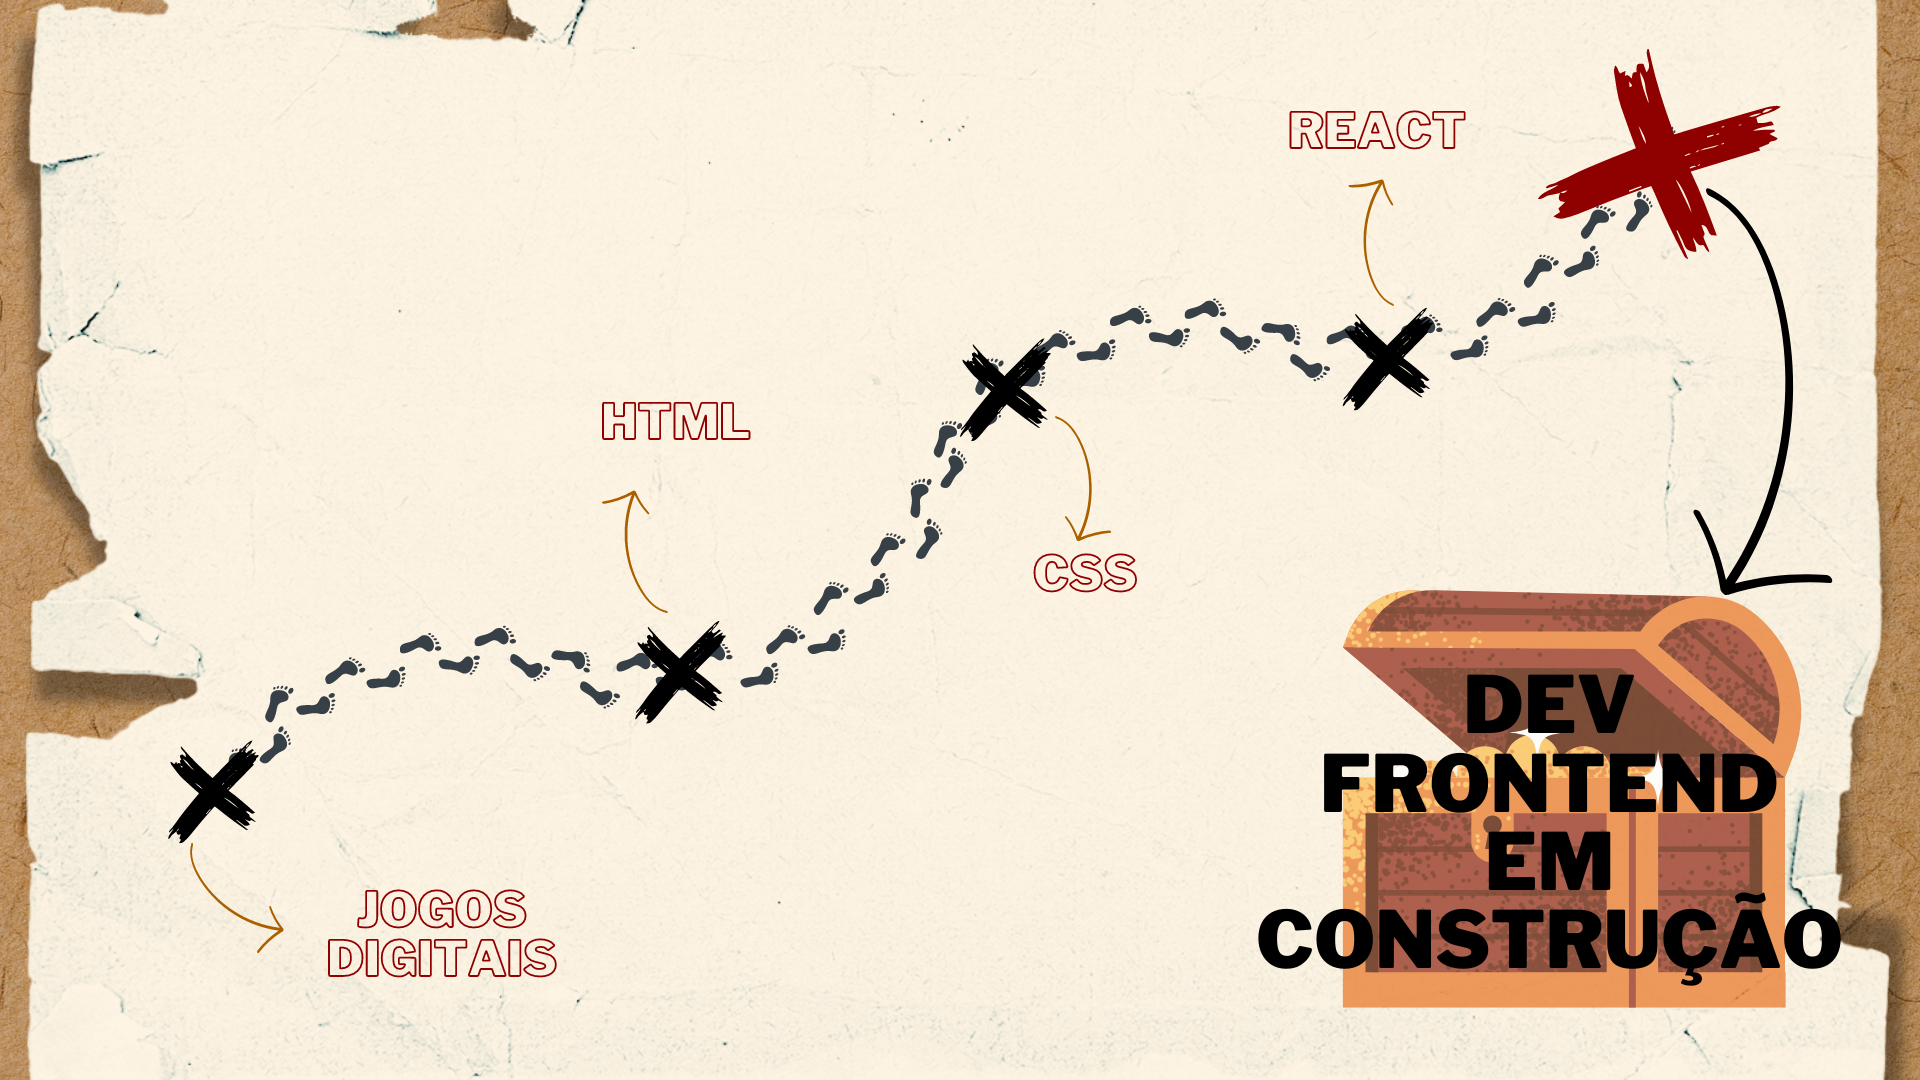
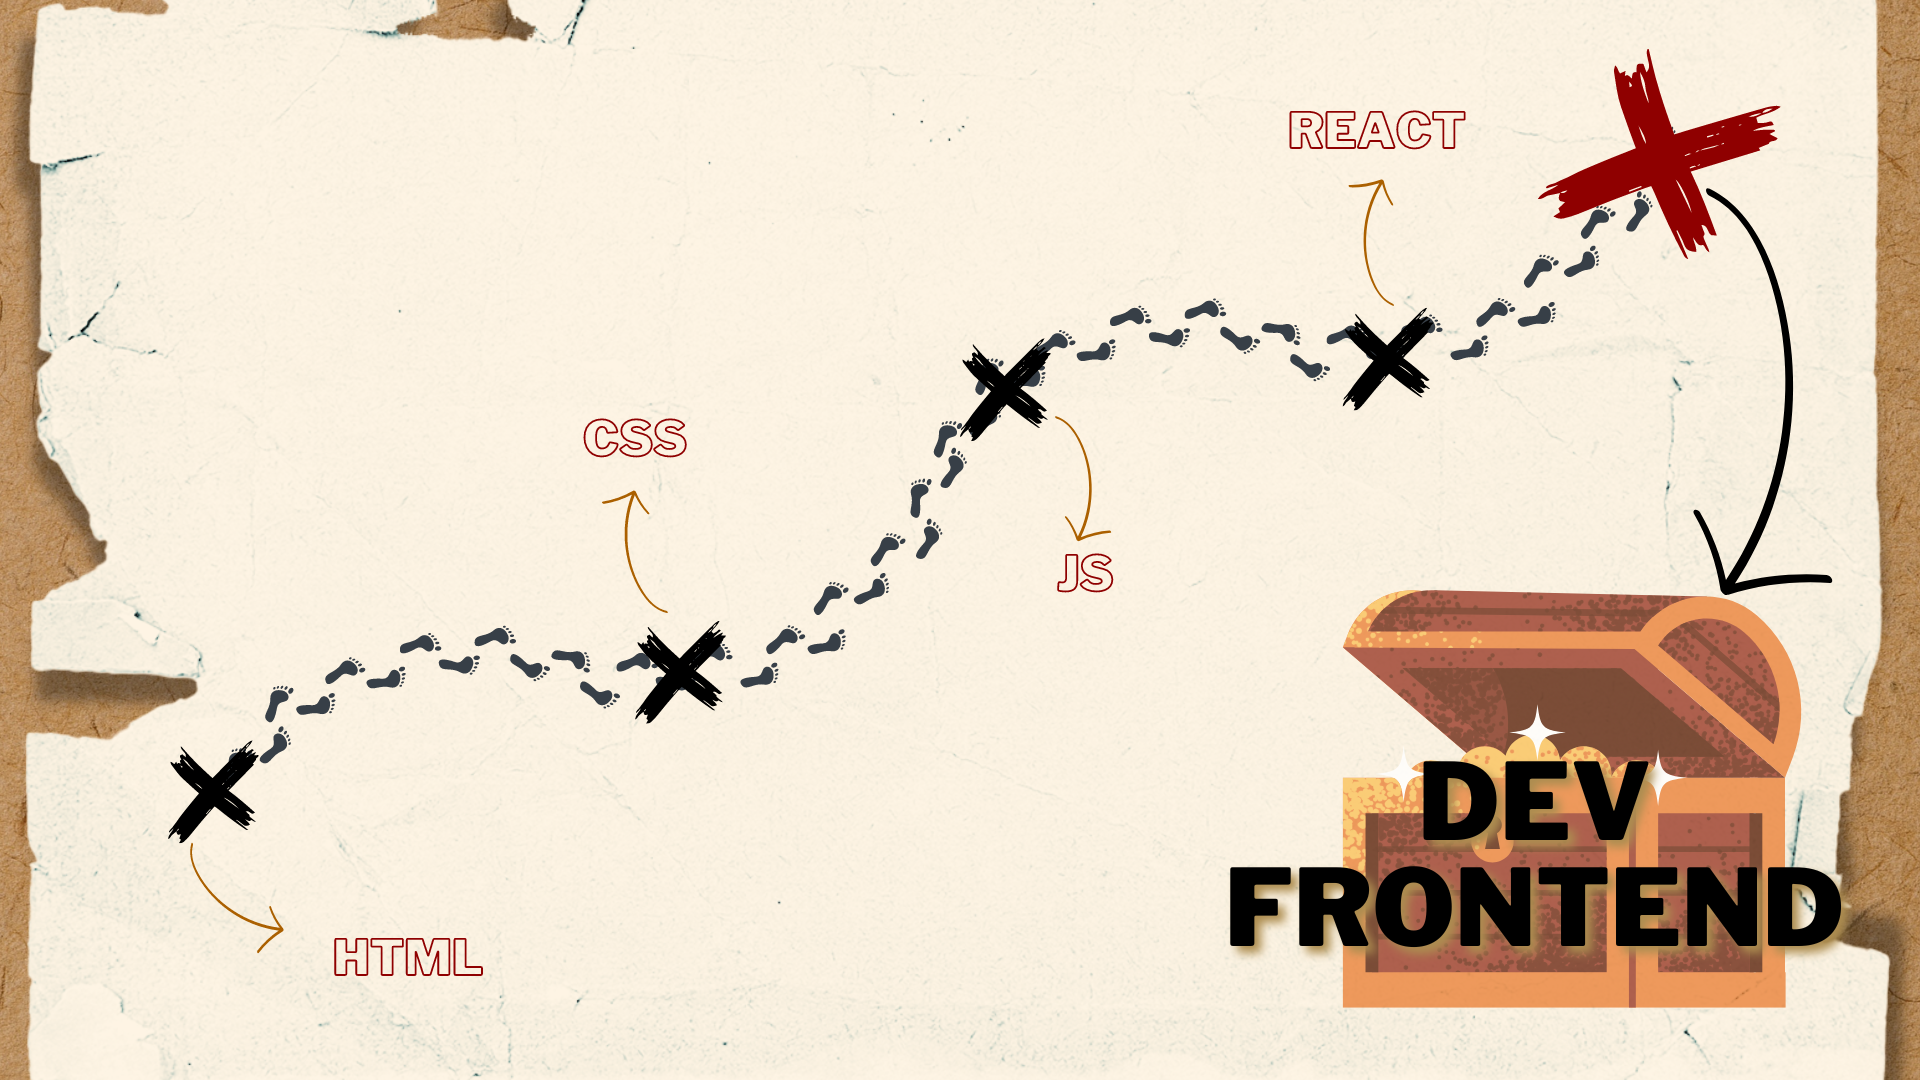
troca da imagem, inicio do hover no sobre mim

diff --git a/portfolio/src/Components/About/StyleAbout.jsx b/portfolio/src/Components/About/StyleAbout.jsx
@@ -1,9 +1,44 @@
-import React from "react";
 import styled from 'styled-components';
+import Mapa from './img/mapa.png'
 
 export const Main = styled.main`
-background-image: url(./img/mapa.png);
+width: 100%;
+height:calc(100vh - 10vh);
+background-image: url(${Mapa});
 background-position: center;
 background-repeat: no-repeat;
-background-size: calc(100vh - 10vh);
+background-size: 80%;
+`;
+
+export const Section =styled.section`
+    width: 100%;
+    height: 90vh;
+    display:grid;
+    align-items: center;
+    grid-template-areas: 
+    "html css js react dev"
+    "html css js react dev"
+    "html css js react dev"
+    "html css js react dev"
+    "html css js react dev"
+    ;
+
+    .html{
+        grid-area: html;
+    }
+    .css{
+        grid-area: css;
+    }
+    .js{
+        grid-area: js;
+    }
+    .react{
+        grid-area: react;
+    }
+    .dev{
+        grid-area: dev;
+    }
+`;
+
+export const Div = styled.div`
 `;

diff --git a/portfolio/src/Components/About/About.jsx b/portfolio/src/Components/About/About.jsx
@@ -3,7 +3,15 @@ import * as S from './StyleAbout.jsx';
 
 function About() {
   return (
-    <S.Main></S.Main>
+      <S.Main>
+      <S.Section>
+        <S.Div className='html'>HTML</S.Div>
+        <S.Div className='css'>CSS</S.Div>
+        <S.Div className='js'>JS</S.Div>
+        <S.Div className='react'>REACT</S.Div>
+        <S.Div className='dev'>DEV</S.Div>
+      </S.Section>
+      </S.Main>
   )
 }
 

diff --git a/portfolio/src/App.jsx b/portfolio/src/App.jsx
@@ -1,6 +1,7 @@
 import React from "react";
 import {createGlobalStyle} from "styled-components";
 import Routes from './Components/Routes/Routes.jsx';
+import About from "./Components/About/About.jsx";
 
 const GlobalStyle = createGlobalStyle`
 *{
